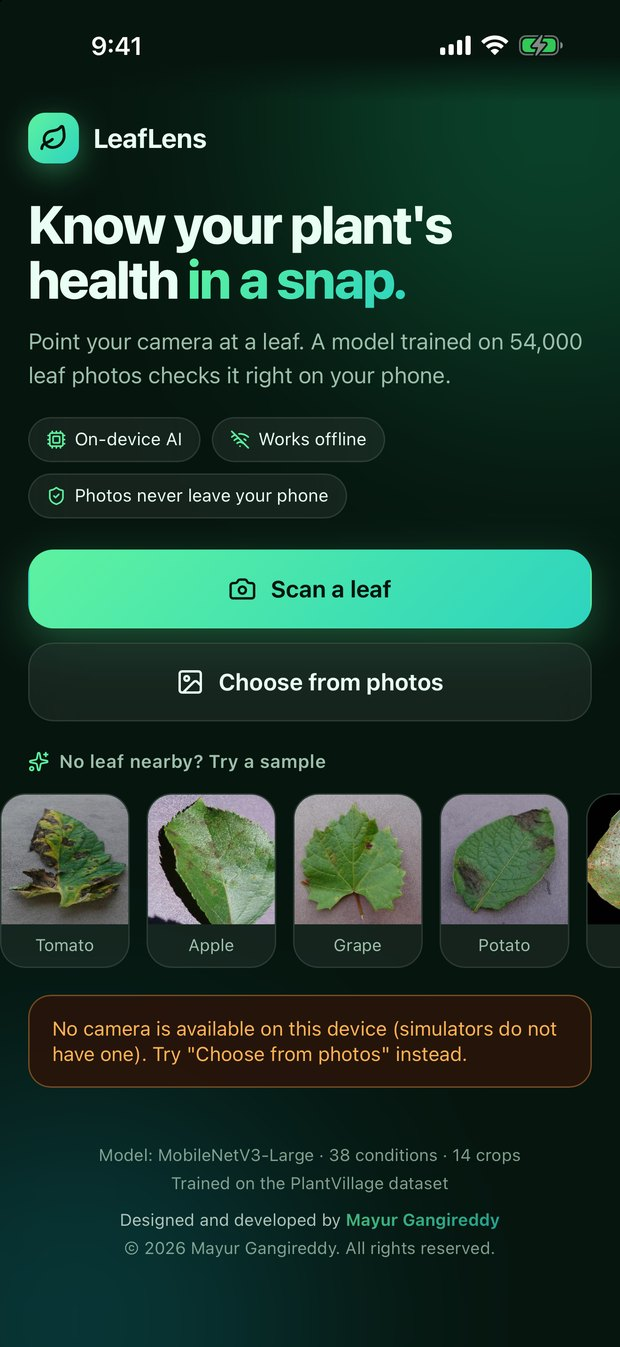
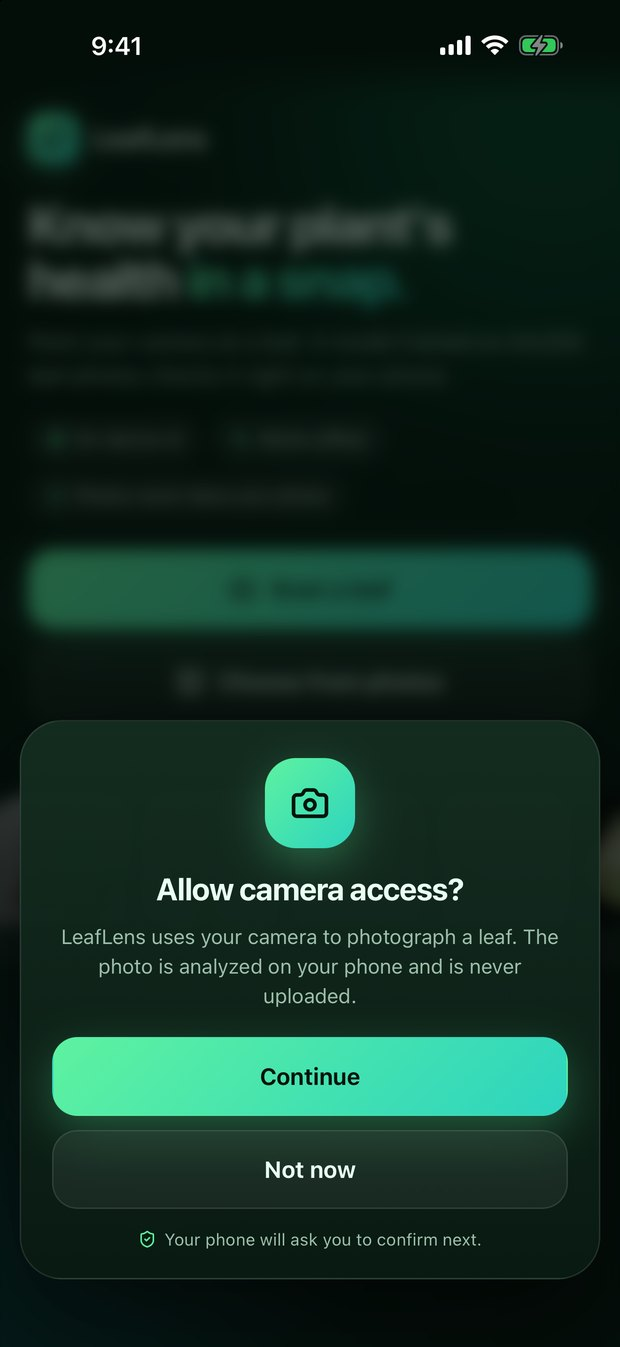
README: replace duplicate screenshots with five distinct screens

diff --git a/README.md b/README.md
@@ -20,7 +20,9 @@
 <img src="docs/screenshots/ios-permission.jpg" width="19%" alt="Camera permission pop-up" />
 <img src="docs/screenshots/ios-result.jpg" width="19%" alt="Scan result" />
 <img src="docs/screenshots/ios-about.jpg" width="19%" alt="About this condition" />
-<img src="docs/screenshots/android-result.jpg" width="19%" alt="Android scan result" />
+<img src="docs/screenshots/android-healthy.jpg" width="19%" alt="Healthy leaf result on Android" />
+
+<sub>Home, permission pop-up, a disease result and its guidance (iPhone simulator), and a healthy-leaf result (Android emulator).</sub>
 
 </div>
 
